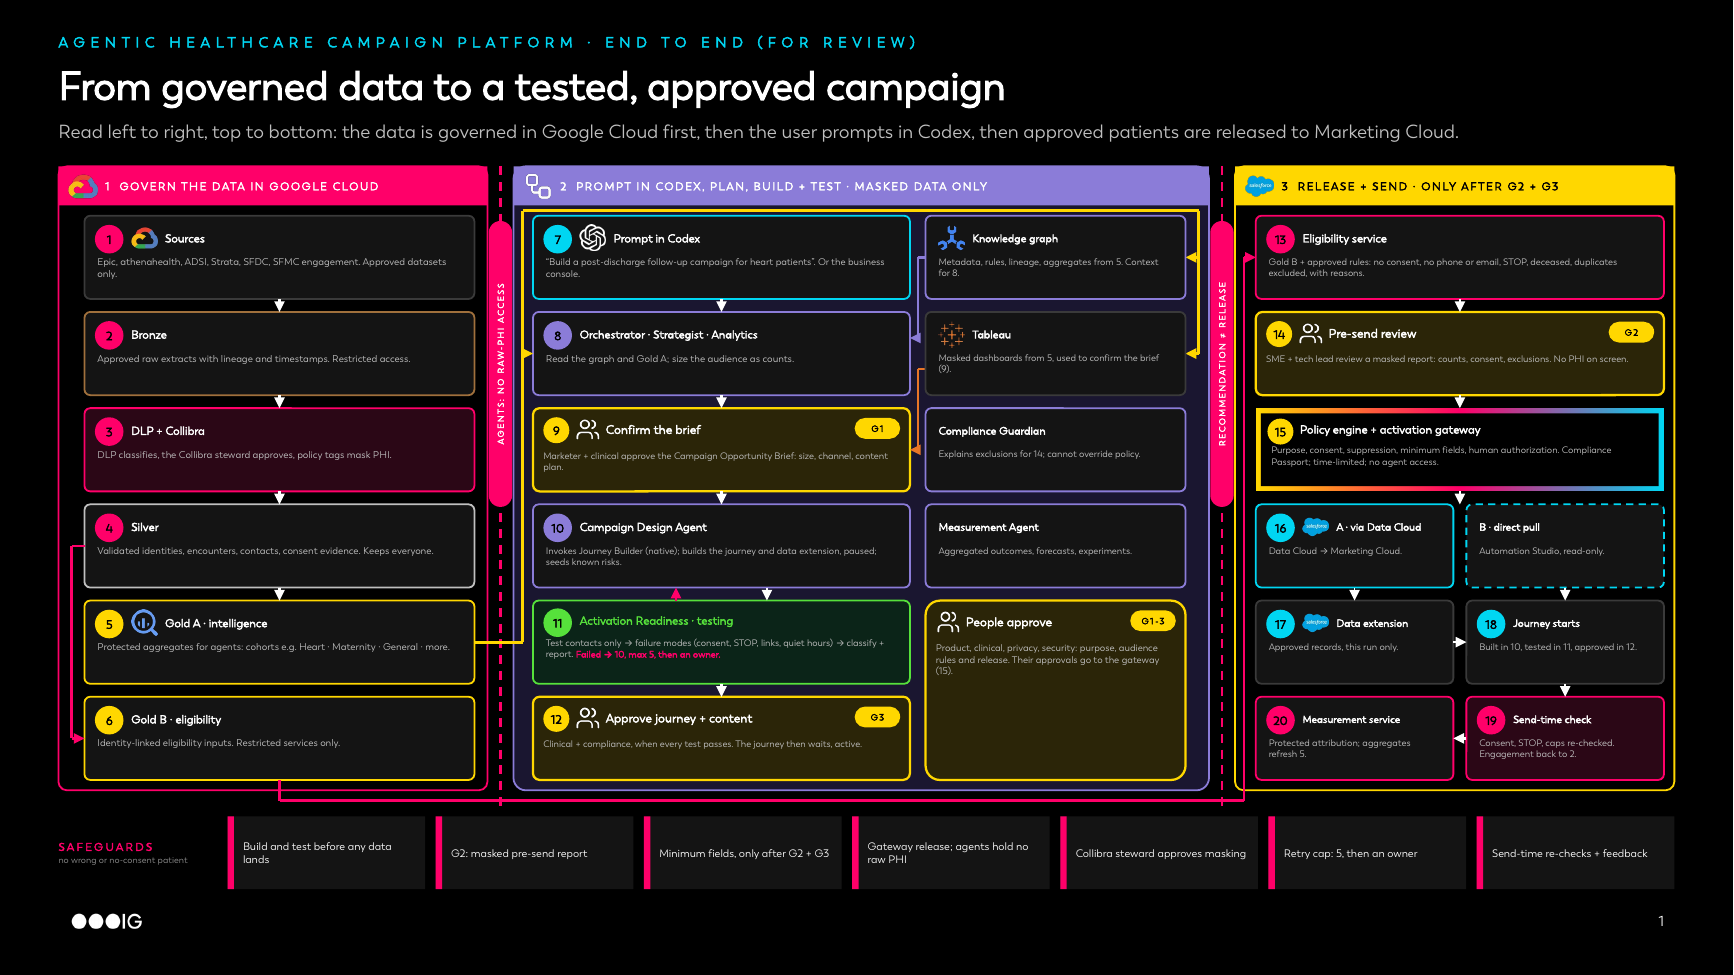
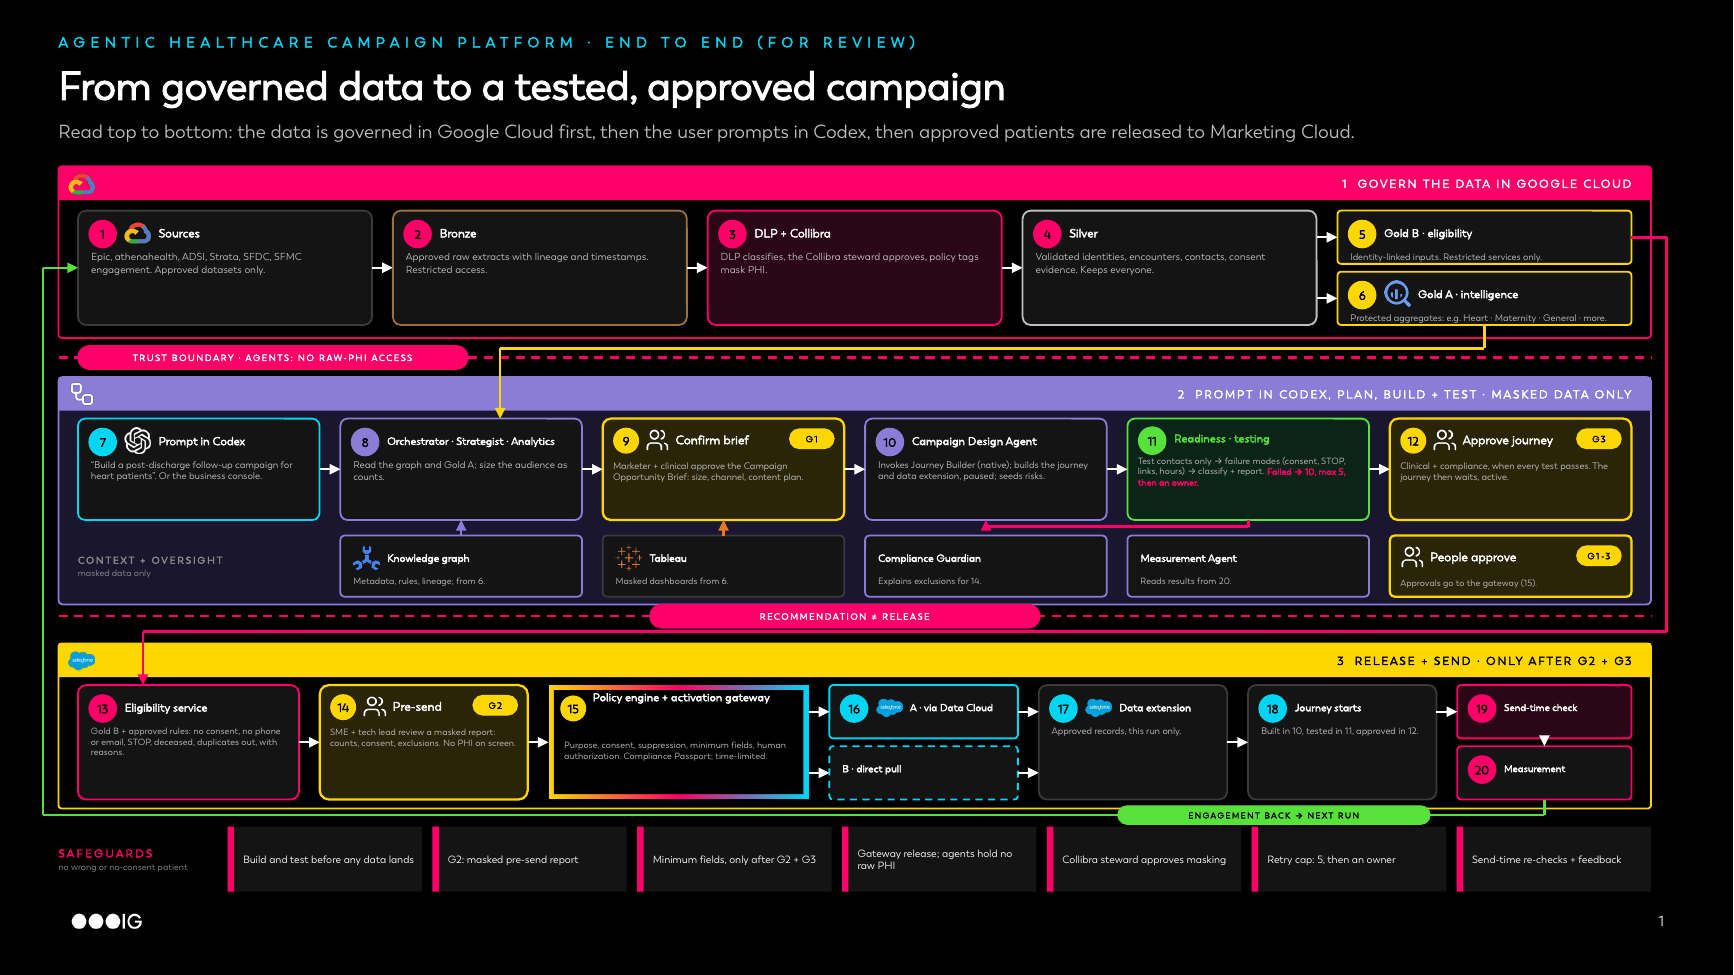
Combined review image: three horizontal bands, top to bottom
Govern the data (top), prompt/plan/build/test (centre), release and send
(bottom), numbered 1-20, with horizontal trust boundaries between bands.
White and black versions; the deck is unchanged.

Claude-Session: https://claude.ai/code/session_01Hf94kqMzSofkkrQm7kpNba

diff --git a/poc/data_harness/combined_flow.py b/poc/data_harness/combined_flow.py
@@ -24,148 +24,177 @@ OUT = os.path.join(HERE, "build", "combined_flow.pptx")
 ON_COLOR = "FFFFFE"     # white text on a brand-colour bar: stays white in the light theme
 
 
+def band(cv, y, h, color, fill, title, icon, tcolor):
+    cv.rect(0.45, y, 12.25, h, fill, color, 1.0, R, 0.02)
+    cv.rect(0.45, y, 12.25, 0.26, color, None)
+    logo(cv, icon, 0.53, y + 0.03, 0.2)
+    cv.text(0.8, y, 11.75, 0.26, title, size=6.4, bold=True, color=tcolor, track=100, align=PP_ALIGN.RIGHT,
+            anchor=MSO_ANCHOR.MIDDLE)
+
+
+def slots(x0, widths, gap=0.16):
+    xs = []
+    for w in widths:
+        xs.append(x0)
+        x0 += w + gap
+    return xs
+
+
 def build(prs, layout):
     s, cv = new_slide(prs, layout)
     dark_header(cv, "AGENTIC HEALTHCARE CAMPAIGN PLATFORM · END TO END (FOR REVIEW)",
                 "From governed data to a tested, approved campaign",
-                "Read left to right, top to bottom: the data is governed in Google Cloud first, then the user prompts "
-                "in Codex, then approved patients are released to Marketing Cloud.")
-    rows = [1.66 + k * 0.74 for k in range(6)]
-    rh = 0.64
-    zt, zb = 1.28, 6.08
-
-    def mid(k):
-        return rows[k] + rh / 2
-    zones = [(0.45, 3.75, MAGENTA, BLACK, "1  GOVERN THE DATA IN GOOGLE CLOUD", "googlecloud", ON_COLOR),
-             (3.95, 9.3, VIO, TINT[VIO], "2  PROMPT IN CODEX, PLAN, BUILD + TEST · MASKED DATA ONLY", "harness",
-              ON_COLOR),
-             (9.5, 12.88, YELLOW, BLACK, "3  RELEASE + SEND · ONLY AFTER G2 + G3", "salesforce", BLACK)]
-    for k, (x0, x1, c, fill, t, ic, tc) in enumerate(zones):
-        cv.rect(x0, zt, x1 - x0, zb - zt, fill, c, 1.0, R, 0.02)
-        cv.rect(x0, zt, x1 - x0, 0.3, c, None)
-        logo(cv, ic, x0 + 0.08, zt + 0.04, 0.22)
-        cv.text(x0 + 0.36, zt, x1 - x0 - 0.42, 0.3, t, size=6.2, bold=True, color=tc, track=80,
-                anchor=MSO_ANCHOR.MIDDLE)
-    for bx_, y0, y1, t in ((3.85, 1.7, 3.9, "AGENTS: NO RAW-PHI ACCESS"), (9.4, 1.7, 3.9, "RECOMMENDATION ≠ RELEASE")):
-        cv.arrow(bx_, zt, bx_, zb + 0.14, MAGENTA, 1.25, dash="dash", head=False)
-        cv.rect(bx_ - 0.09, y0, 0.18, y1 - y0, MAGENTA, None, shape=R, radius=0.5)
-        tb = cv.text(bx_ - (y1 - y0) / 2, (y0 + y1) / 2 - 0.09, y1 - y0, 0.18, t, size=4.8, bold=True,
-                     color=ON_COLOR, align=PP_ALIGN.CENTER, anchor=MSO_ANCHOR.MIDDLE, track=80)
-        tb.rotation = 270
-    # ---------------------------------------------------------------- 1 govern the data (top-down)
-    gx, gw = 0.65, 3.0
+                "Read top to bottom: the data is governed in Google Cloud first, then the user prompts in Codex, then "
+                "approved patients are released to Marketing Cloud.")
+    X0 = 0.6
+    # ---------------------------------------------------------------- 1 govern the data (top band)
+    b1, h1 = 1.28, 1.32
+    band(cv, b1, h1, MAGENTA, BLACK, "1  GOVERN THE DATA IN GOOGLE CLOUD", "googlecloud", ON_COLOR)
+    cy, ch = b1 + 0.34, 0.88
+    w1 = (11.95 - 4 * 0.16) / 5
+    xs1 = slots(X0, [w1] * 5)
     data = [("Sources", "Epic, athenahealth, ADSI, Strata, SFDC, SFMC engagement. Approved datasets only.", EDGE,
              CARD, "googlecloud"),
             ("Bronze", "Approved raw extracts with lineage and timestamps. Restricted access.", "A0703C", CARD, None),
             ("DLP + Collibra", "DLP classifies, the Collibra steward approves, policy tags mask PHI.", MAGENTA,
              TINT[MAGENTA], None),
             ("Silver", "Validated identities, encounters, contacts, consent evidence. Keeps everyone.", SOFT, CARD,
-             None),
-            ("Gold A · intelligence", "Protected aggregates for agents: cohorts e.g. Heart · Maternity · General · "
-             "more.", YELLOW, CARD, "googlebigquery"),
-            ("Gold B · eligibility", "Identity-linked eligibility inputs. Restricted services only.", YELLOW, CARD,
              None)]
     for k, (t, d, ln, fl, ic) in enumerate(data):
-        item(cv, gx, rows[k], gw, rh, t, d, line=ln, fill=fl, icon=ic, n=k + 1, ncolor=MAGENTA if k < 4 else YELLOW,
-             bsize=5.4, tsize=6.4)
-    for k in range(4):
-        cv.arrow(gx + gw / 2, rows[k] + rh, gx + gw / 2, rows[k + 1], WHITE, 1.25)
-    path(cv, [(gx, mid(3)), (0.55, mid(3)), (0.55, mid(5)), (gx, mid(5))], MAGENTA, 1.25)
-    # ---------------------------------------------------------------- 2 prompt, plan, build + test
-    mx, mw = 4.1, 2.9
-    sx, sw = 7.12, 2.0
-    item(cv, mx, rows[0], mw, rh, "Prompt in Codex", "“Build a post-discharge follow-up campaign for heart "
+        item(cv, xs1[k], cy, w1, ch, t, d, line=ln, fill=fl, icon=ic, n=k + 1, ncolor=MAGENTA, bsize=5.6,
+             tsize=6.6)
+        if k < 3:
+            cv.arrow(xs1[k] + w1, cy + ch / 2, xs1[k + 1], cy + ch / 2, WHITE, 1.25)
+    gh = (ch - 0.06) / 2
+    gx = xs1[4]
+    item(cv, gx, cy, w1, gh, "Gold B · eligibility", "Identity-linked inputs. Restricted services only.", line=YELLOW,
+         n=5, ncolor=YELLOW, bsize=5.2, tsize=6.2)
+    item(cv, gx, cy + gh + 0.06, w1, gh, "Gold A · intelligence", "Protected aggregates: e.g. Heart · Maternity · "
+         "General · more.", line=YELLOW, n=6, ncolor=YELLOW, icon="googlebigquery", bsize=5.2, tsize=6.2)
+    sxr = xs1[3] + w1
+    cv.arrow(sxr, cy + gh / 2, gx, cy + gh / 2, WHITE, 1.25)
+    cv.arrow(sxr, cy + gh + 0.06 + gh / 2, gx, cy + gh + 0.06 + gh / 2, WHITE, 1.25)
+    # ---------------------------------------------------------------- boundary 1
+    l1 = 2.75
+    cv.arrow(0.45, l1, 12.7, l1, MAGENTA, 1.25, dash="dash", head=False)
+    pill(cv, 0.6, l1 - 0.09, 3.0, "TRUST BOUNDARY · AGENTS: NO RAW-PHI ACCESS", MAGENTA, True, h=0.18, size=5,
+         tcolor=ON_COLOR)
+    # ---------------------------------------------------------------- 2 prompt, plan, build + test (centre band)
+    b2, h2 = 2.9, 1.75
+    band(cv, b2, h2, VIO, TINT[VIO], "2  PROMPT IN CODEX, PLAN, BUILD + TEST · MASKED DATA ONLY", "harness",
+         ON_COLOR)
+    my, mh = b2 + 0.32, 0.78
+    w2 = (11.95 - 5 * 0.16) / 6
+    xs2 = slots(X0, [w2] * 6)
+    item(cv, xs2[0], my, w2, mh, "Prompt in Codex", "“Build a post-discharge follow-up campaign for heart "
          "patients”. Or the business console.", line=CYAN, n=7, icon="openai-white", bsize=5.3, tsize=6.4)
-    item(cv, mx, rows[1], mw, rh, "Orchestrator · Strategist · Analytics", "Read the graph and Gold A; size the "
-         "audience as counts.", line=VIO, n=8, ncolor=VIO, bsize=5.4, tsize=6.2)
-    gatecard(cv, mx, rows[2], mw, rh, "G1", "Confirm the brief", "Marketer + clinical approve the Campaign "
-             "Opportunity Brief: size, channel, content plan.", n=9, bsize=5.2)
-    item(cv, mx, rows[3], mw, rh, "Campaign Design Agent", "Invokes Journey Builder (native); builds the journey "
-         "and data extension, paused; seeds known risks.", line=VIO, n=10, ncolor=VIO, bsize=5.2, tsize=6.4)
-    cv.rect(mx, rows[4], mw, rh, "0B2418", GREEN, 1.0, R, 0.07)
-    badge(cv, mx + 0.08, rows[4] + 0.06, 11, GREEN, 0.22)
-    cv.text(mx + 0.36, rows[4] + 0.04, mw - 0.4, 0.22, "Activation Readiness · testing", size=6.4, bold=True,
-            color=GREEN, anchor=MSO_ANCHOR.MIDDLE)
-    cv.text(mx + 0.1, rows[4] + 0.28, mw - 0.16, rh - 0.3, [[("Test contacts only → failure modes (consent, STOP, "
-                                                             "links, quiet hours) → classify + report. ", {}),
-                                                            ("Failed → 10, max 5, then an owner.",
-                                                             {"bold": True, "color": MAGENTA})]], size=5.2,
-            color=SOFT)
-    gatecard(cv, mx, rows[5], mw, rh, "G3", "Approve journey + content", "Clinical + compliance, when every test "
-             "passes. The journey then waits, active.", n=12, bsize=5.2)
+    item(cv, xs2[1], my, w2, mh, "Orchestrator · Strategist · Analytics", "Read the graph and Gold A; size the "
+         "audience as counts.", line=VIO, n=8, ncolor=VIO, bsize=5.4, tsize=5.9)
+    gatecard(cv, xs2[2], my, w2, mh, "G1", "Confirm brief", "Marketer + clinical approve the Campaign Opportunity "
+             "Brief: size, channel, content plan.", n=9, bsize=5.2)
+    item(cv, xs2[3], my, w2, mh, "Campaign Design Agent", "Invokes Journey Builder (native); builds the journey and "
+         "data extension, paused; seeds risks.", line=VIO, n=10, ncolor=VIO, bsize=5.2, tsize=6.2)
+    tx = xs2[4]
+    cv.rect(tx, my, w2, mh, "0B2418", GREEN, 1.0, R, 0.07)
+    badge(cv, tx + 0.08, my + 0.06, 11, GREEN, 0.22)
+    cv.text(tx + 0.36, my + 0.04, w2 - 0.4, 0.22, "Readiness · testing", size=6.2, bold=True, color=GREEN,
+            anchor=MSO_ANCHOR.MIDDLE)
+    cv.text(tx + 0.08, my + 0.28, w2 - 0.14, mh - 0.3, [[("Test contacts only → failure modes (consent, STOP, "
+                                                         "links, hours) → classify + report. ", {}),
+                                                        ("Failed → 10, max 5, then an owner.",
+                                                         {"bold": True, "color": MAGENTA})]], size=5.0, color=SOFT)
+    gatecard(cv, xs2[5], my, w2, mh, "G3", "Approve journey", "Clinical + compliance, when every test passes. "
+             "The journey then waits, active.", n=12, bsize=5.2)
     for k in range(5):
-        xo = mx + mw / 2 + (0.35 if k == 3 else 0)
-        cv.arrow(xo, rows[k] + rh, xo, rows[k + 1], WHITE, 1.25)
-    cv.arrow(mx + mw / 2 - 0.35, rows[4], mx + mw / 2 - 0.35, rows[3] + rh, MAGENTA, 1.5)
-    # Gold A -> agents, across the boundary
-    path(cv, [(gx + gw, mid(4)), (4.02, mid(4)), (4.02, mid(1)), (mx, mid(1))], YELLOW, 1.5)
-    # Gold A also feeds the knowledge graph and Tableau (protected aggregates), along the top channel
-    ch = sx + sw + 0.1
-    path(cv, [(4.02, mid(1)), (4.02, 1.62), (ch, 1.62), (ch, mid(1)), (sx + sw, mid(1))], YELLOW, 1.5)
-    cv.arrow(ch, mid(0), sx + sw, mid(0), YELLOW, 1.5)
-    # knowledge graph -> agents (context); Tableau -> confirm the brief (masked dashboards)
-    path(cv, [(sx, mid(0)), (7.06, mid(0)), (7.06, mid(1) - 0.12), (mx + mw, mid(1) - 0.12)], VIO, 1.25)
-    path(cv, [(sx, mid(1) + 0.12), (7.06, mid(1) + 0.12), (7.06, mid(2)), (mx + mw, mid(2))], "E97627", 1.25)
-    # shared context + oversight
-    item(cv, sx, rows[0], sw, rh, "Knowledge graph", "Metadata, rules, lineage, aggregates from 5. Context for 8.", line=VIO,
-         icon="googlecloudspanner", bsize=5.2, tsize=6.0)
-    item(cv, sx, rows[1], sw, rh, "Tableau", "Masked dashboards from 5, used to confirm the brief (9).", icon="tableau", bsize=5.2, tsize=6.0)
-    item(cv, sx, rows[2], sw, rh, "Compliance Guardian", "Explains exclusions for 14; cannot override policy.",
-         line=VIO, bsize=5.2, tsize=6.0)
-    item(cv, sx, rows[3], sw, rh, "Measurement Agent", "Aggregated outcomes, forecasts, experiments.", line=VIO,
-         bsize=5.2, tsize=6.0)
-    gatecard(cv, sx, rows[4], sw, rows[5] + rh - rows[4], "G1-3", "People approve", "Product, clinical, privacy, "
-             "security: purpose, audience rules and release. Their approvals go to the gateway (15).", bsize=5.3)
-    # ---------------------------------------------------------------- 3 release + send (top-down)
-    rx, rw = 9.66, 3.14
-    item(cv, rx, rows[0], rw, rh, "Eligibility service", "Gold B + approved rules: no consent, no phone or email, "
-         "STOP, deceased, duplicates excluded, with reasons.", line=MAGENTA, n=13, ncolor=MAGENTA, bsize=5.2,
-         tsize=6.4)
-    gatecard(cv, rx, rows[1], rw, rh, "G2", "Pre-send review", "SME + tech lead review a masked report: counts, "
-             "consent, exclusions. No PHI on screen.", n=14, bsize=5.2)
-    fx, fy, fw, fh = cv.frame(rx, rows[2], rw, rh, BLACK, 0.04)
+        cv.arrow(xs2[k] + w2, my + mh / 2, xs2[k + 1], my + mh / 2, WHITE, 1.25)
+    # failed tests: 11 back to 10, under the row
+    lp = my + mh + 0.05
+    path(cv, [(tx + w2 / 2, my + mh), (tx + w2 / 2, lp), (xs2[3] + w2 / 2, lp), (xs2[3] + w2 / 2, my + mh)],
+         MAGENTA, 1.5)
+    # context + oversight row
+    sy, sh = my + mh + 0.12, 0.47
+    cv.text(xs2[0], sy, w2, sh, [[("CONTEXT + OVERSIGHT", {"bold": True, "color": DIM, "track": 100})],
+                                 [("masked data only", {"color": DIM, "size": 5})]], size=5.4,
+            anchor=MSO_ANCHOR.MIDDLE, after=1)
+    item(cv, xs2[1], sy, w2, sh, "Knowledge graph", "Metadata, rules, lineage; from 6.", line=VIO,
+         icon="googlecloudspanner", bsize=5.0, tsize=5.8)
+    item(cv, xs2[2], sy, w2, sh, "Tableau", "Masked dashboards from 6.", icon="tableau", bsize=5.0, tsize=5.8)
+    item(cv, xs2[3], sy, w2, sh, "Compliance Guardian", "Explains exclusions for 14.", line=VIO, bsize=5.0,
+         tsize=5.8)
+    item(cv, xs2[4], sy, w2, sh, "Measurement Agent", "Reads results from 20.", line=VIO, bsize=5.0, tsize=5.8)
+    gatecard(cv, xs2[5], sy, w2, sh, "G1-3", "People approve", "Approvals go to the gateway (15).", bsize=5.0)
+    cv.arrow(xs2[1] + w2 / 2, sy, xs2[1] + w2 / 2, my + mh, VIO, 1.25)
+    cv.arrow(xs2[2] + w2 / 2, sy, xs2[2] + w2 / 2, my + mh, "E97627", 1.25)
+    # Gold A -> agents (8), across boundary 1
+    ga_y = cy + gh + 0.06 + gh
+    ch1 = 2.68
+    path(cv, [(gx + w1 / 2, ga_y), (gx + w1 / 2, ch1), (xs2[1] + w2 / 2 + 0.3, ch1), (xs2[1] + w2 / 2 + 0.3, my)],
+         YELLOW, 1.5)
+    # ---------------------------------------------------------------- boundary 2
+    l2 = 4.74
+    cv.arrow(0.45, l2, 12.7, l2, MAGENTA, 1.25, dash="dash", head=False)
+    pill(cv, 5.0, l2 - 0.09, 3.0, "RECOMMENDATION ≠ RELEASE", MAGENTA, True, h=0.18, size=5, tcolor=ON_COLOR)
+    # ---------------------------------------------------------------- 3 release + send (bottom band)
+    b3, h3 = 4.95, 1.27
+    band(cv, b3, h3, YELLOW, BLACK, "3  RELEASE + SEND · ONLY AFTER G2 + G3", "salesforce", BLACK)
+    ry, rh = b3 + 0.32, 0.88
+    widths = [1.7, 1.6, 2.0, 1.45, 1.45, 1.45, 1.34]
+    xs3 = slots(X0, widths)
+    item(cv, xs3[0], ry, widths[0], rh, "Eligibility service", "Gold B + approved rules: no consent, no phone or "
+         "email, STOP, deceased, duplicates out, with reasons.", line=MAGENTA, n=13, ncolor=MAGENTA, bsize=5.0,
+         tsize=6.2)
+    gatecard(cv, xs3[1], ry, widths[1], rh, "G2", "Pre-send", "SME + tech lead review a masked report: counts, "
+             "consent, exclusions. No PHI on screen.", n=14, bsize=5.0)
+    fx, fy, fw, fh = cv.frame(xs3[2], ry, widths[2], rh, BLACK, 0.04)
     badge(cv, fx + 0.05, fy + 0.04, 15, YELLOW, 0.2)
-    cv.text(fx + 0.3, fy + 0.01, fw - 0.34, 0.22, "Policy engine + activation gateway", size=6.4, bold=True,
-            color=WHITE, anchor=MSO_ANCHOR.MIDDLE)
-    cv.text(fx + 0.08, fy + 0.24, fw - 0.14, fh - 0.25, "Purpose, consent, suppression, minimum fields, human "
-            "authorization. Compliance Passport; time-limited; no agent access.", size=5.2, color=SOFT)
-    hw = (rw - 0.1) / 2
-    item(cv, rx, rows[3], hw, rh, "A · via Data Cloud", "Data Cloud → Marketing Cloud.", line=CYAN, n=16,
+    cv.text(fx + 0.3, fy + 0.01, fw - 0.34, 0.36, "Policy engine + activation gateway", size=6.2, bold=True,
+            color=WHITE, line=0.9)
+    cv.text(fx + 0.08, fy + 0.38, fw - 0.14, fh - 0.39, "Purpose, consent, suppression, minimum fields, human "
+            "authorization. Compliance Passport; time-limited.", size=5.0, color=SOFT)
+    ph = (rh - 0.06) / 2
+    item(cv, xs3[3], ry, widths[3], ph, "A · via Data Cloud", None, line=CYAN, n=16, icon="salesforce", tsize=5.6)
+    item(cv, xs3[3], ry + ph + 0.06, widths[3], ph, "B · direct pull", None, line=CYAN, dash="dash", tsize=5.6)
+    item(cv, xs3[4], ry, widths[4], rh, "Data extension", "Approved records, this run only.", n=17,
          icon="salesforce", bsize=5.2, tsize=5.8)
-    item(cv, rx + hw + 0.1, rows[3], hw, rh, "B · direct pull", "Automation Studio, read-only.", line=CYAN,
-         dash="dash", bsize=5.2, tsize=5.8)
-    item(cv, rx, rows[4], hw, rh, "Data extension", "Approved records, this run only.", n=17, icon="salesforce",
+    item(cv, xs3[5], ry, widths[5], rh, "Journey starts", "Built in 10, tested in 11, approved in 12.", n=18,
          bsize=5.2, tsize=5.8)
-    item(cv, rx + hw + 0.1, rows[4], hw, rh, "Journey starts", "Built in 10, tested in 11, approved in 12.", n=18,
-         bsize=5.2, tsize=5.8)
-    item(cv, rx + hw + 0.1, rows[5], hw, rh, "Send-time check", "Consent, STOP, caps re-checked. Engagement back "
-         "to 2.", line=MAGENTA, fill=TINT[MAGENTA], n=19, ncolor=MAGENTA, bsize=5.2, tsize=5.8)
-    item(cv, rx, rows[5], hw, rh, "Measurement service", "Protected attribution; aggregates refresh 5.",
-         line=MAGENTA, n=20, ncolor=MAGENTA, bsize=5.2, tsize=5.6)
-    for k in (0, 1, 2):
-        cv.arrow(rx + rw / 2, rows[k] + rh, rx + rw / 2, rows[k + 1], WHITE, 1.25)
-    for x in (rx + hw / 2, rx + hw + 0.1 + hw / 2):
-        cv.arrow(x, rows[3] + rh, x, rows[4], WHITE, 1.0)
-    cv.arrow(rx + hw, mid(4), rx + hw + 0.1, mid(4), WHITE, 1.25)
-    cv.arrow(rx + hw + 0.1 + hw / 2, rows[4] + rh, rx + hw + 0.1 + hw / 2, rows[5], WHITE, 1.25)
-    cv.arrow(rx + hw + 0.1, mid(5), rx + hw, mid(5), WHITE, 1.25)
-    # Gold B -> eligibility, along the bottom channel
-    path(cv, [(gx + 1.5, rows[5] + rh), (gx + 1.5, 6.16), (9.57, 6.16), (9.57, mid(0)), (rx, mid(0))], MAGENTA,
+    item(cv, xs3[6], ry, widths[6], ph, "Send-time check", None, line=MAGENTA, fill=TINT[MAGENTA], n=19,
+         ncolor=MAGENTA, tsize=5.4)
+    item(cv, xs3[6], ry + ph + 0.06, widths[6], ph, "Measurement", None, line=MAGENTA, n=20, ncolor=MAGENTA,
+         tsize=5.4)
+    cv.arrow(xs3[6] + widths[6] / 2, ry + ph, xs3[6] + widths[6] / 2, ry + ph + 0.06, WHITE, 1.0)
+    mid3 = ry + rh / 2
+    for k in (0, 1):
+        cv.arrow(xs3[k] + widths[k], mid3, xs3[k + 1], mid3, WHITE, 1.25)
+    for yy in (ry + ph / 2, ry + ph + 0.06 + ph / 2):
+        cv.arrow(xs3[2] + widths[2], yy, xs3[3], yy, WHITE, 1.0)
+        cv.arrow(xs3[3] + widths[3], yy, xs3[4], yy, WHITE, 1.0)
+    cv.arrow(xs3[4] + widths[4], mid3, xs3[5], mid3, WHITE, 1.25)
+    cv.arrow(xs3[5] + widths[5], ry + ph / 2, xs3[6], ry + ph / 2, WHITE, 1.25)
+    # Gold B -> eligibility: down the right margin, across boundary 2
+    gb_y = cy + gh / 2
+    ch2 = 4.86
+    path(cv, [(gx + w1, gb_y), (12.82, gb_y), (12.82, ch2), (xs3[0] + 0.5, ch2), (xs3[0] + 0.5, ry)], MAGENTA,
          1.5)
+    # engagement back: measurement -> sources, round the left margin
+    fb = 6.27
+    path(cv, [(xs3[6] + widths[6] / 2, ry + rh), (xs3[6] + widths[6] / 2, fb), (0.33, fb), (0.33, cy + ch / 2),
+              (X0, cy + ch / 2)], GREEN, 1.25)
+    pill(cv, 8.6, fb - 0.07, 2.4, "ENGAGEMENT BACK → NEXT RUN", GREEN, True, h=0.14, size=4.6)
     # ---------------------------------------------------------------- safeguards
-    sy, sh = 6.28, 0.56
-    cv.text(0.45, sy, 1.25, sh, [[("SAFEGUARDS", {"bold": True, "color": MAGENTA, "track": 120})],
-                                 [("no wrong or no-consent patient", {"color": DIM, "size": 5})]], size=6.2,
+    sgy, sgh = 6.36, 0.5
+    cv.text(0.45, sgy, 1.25, sgh, [[("SAFEGUARDS", {"bold": True, "color": MAGENTA, "track": 120})],
+                                   [("no wrong or no-consent patient", {"color": DIM, "size": 5})]], size=6.2,
             anchor=MSO_ANCHOR.MIDDLE, after=1)
     guards = ["Build and test before any data lands", "G2: masked pre-send report",
               "Minimum fields, only after G2 + G3", "Gateway release; agents hold no raw PHI",
               "Collibra steward approves masking", "Retry cap: 5, then an owner", "Send-time re-checks + feedback"]
-    gw_ = (12.88 - 1.75 - 6 * 0.08) / 7
+    gw_ = (12.7 - 1.75 - 6 * 0.08) / 7
     for k, t in enumerate(guards):
         x = 1.75 + k * (gw_ + 0.08)
-        cv.rect(x, sy, gw_, sh, CARD, None)
-        cv.rect(x, sy, 0.05, sh, MAGENTA, None)
-        cv.text(x + 0.12, sy, gw_ - 0.16, sh, t, size=6, color=WHITE, anchor=MSO_ANCHOR.MIDDLE)
+        cv.rect(x, sgy, gw_, sgh, CARD, None)
+        cv.rect(x, sgy, 0.05, sgh, MAGENTA, None)
+        cv.text(x + 0.12, sgy, gw_ - 0.16, sgh, t, size=5.8, color=WHITE, anchor=MSO_ANCHOR.MIDDLE)
     return s
 
 
